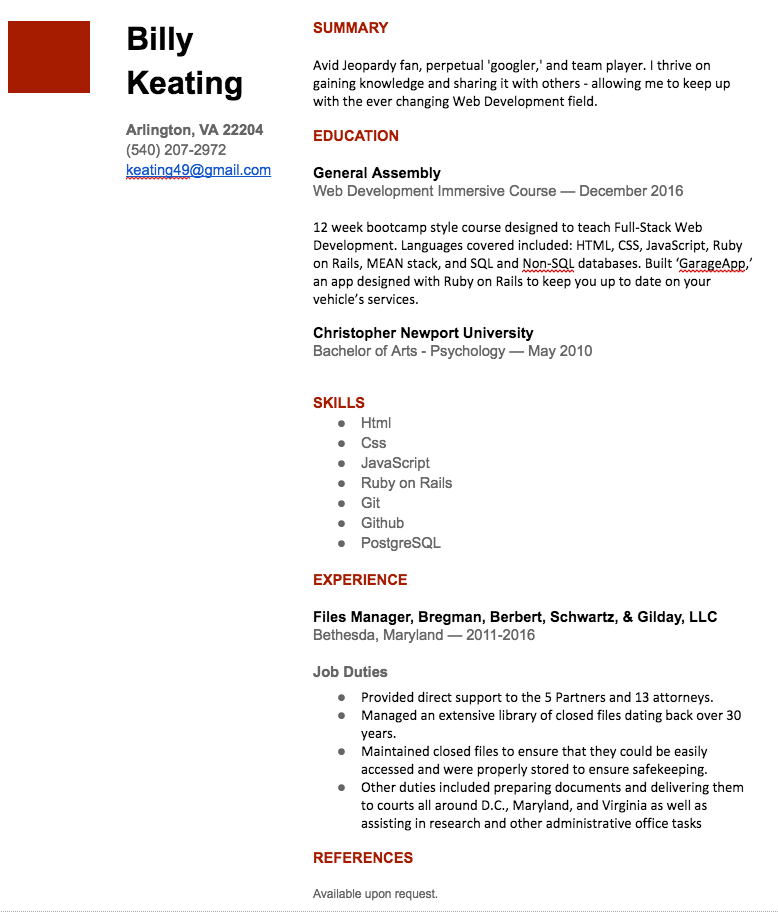
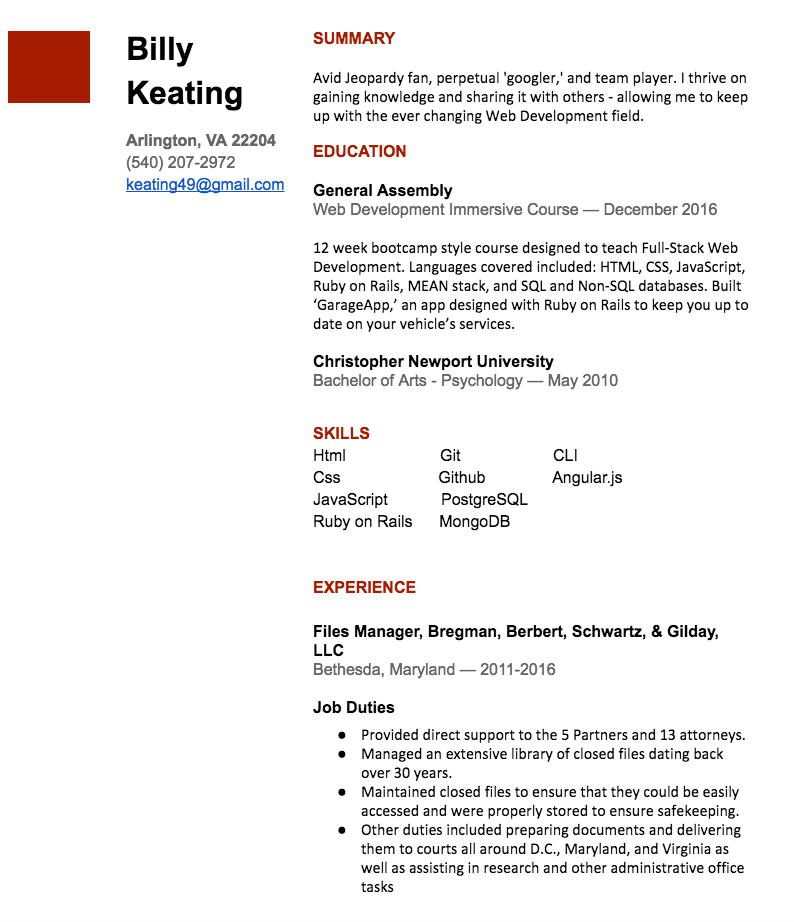
little tweaks

diff --git a/resume.html b/resume.html
@@ -27,7 +27,8 @@
           <img src= "https://github.com/bkeating55/bkeating55.github.io/blob/master/images/Headshot.jpg?raw=true">
         </div>
         <div class="resume">
-          <img src= "https://github.com/bkeating55/bkeating55.github.io/blob/master/images/Resume3.png?raw=true">
+          <a href="https://docs.google.com/document/d/1-1OtNAXS7QgQ7BD7-moCbJ2NFsqziqyZc40VvYWQr5I/edit"><img src= "https://github.com/bkeating55/bkeating55.github.io/blob/master/images/Resume.png?raw=true">
+            <p>Click to view a printable version<p>
         </div>
       </div>
 

diff --git a/projects.html b/projects.html
@@ -23,6 +23,9 @@
         </li>
       </ul>
     </nav>
+    <div class="resume-header">
+    <h1> Click on a project to view deployed version</h1>
+  </div>
     <div class="container">
       <div class="Grid-cell2">
         <a href="https://mygarageapp.herokuapp.com/"><img src="https://github.com/bkeating55/bkeating55.github.io/blob/master/images/GarageApp.png?raw=true"

diff --git a/index.html b/index.html
@@ -25,7 +25,7 @@
     </nav>
 
   <h1>Welcome, I'm Billy Keating</h1>
-  <h2>Graduate of General Assembly DC WDI-12</h2>
+  <h2>Avid Jeopardy fan, perpetual 'googler,' and team player. I thrive on gaining knowledge and sharing it with others - allowing me to keep up with the ever changing Web Development field.</h2>
 
 
 

diff --git a/style.css b/style.css
@@ -12,7 +12,7 @@ h2 {
   color: white;
   margin-top: 80px;
   font-family: fantasy;
-  margin-left: 400px;
+  margin-left: 150px;
 }
 p {
   color: white;
@@ -143,4 +143,8 @@ img {
 .resume img {
   height: 550px;
   width: auto;
+}
+
+.resume-header h1{
+
 }
